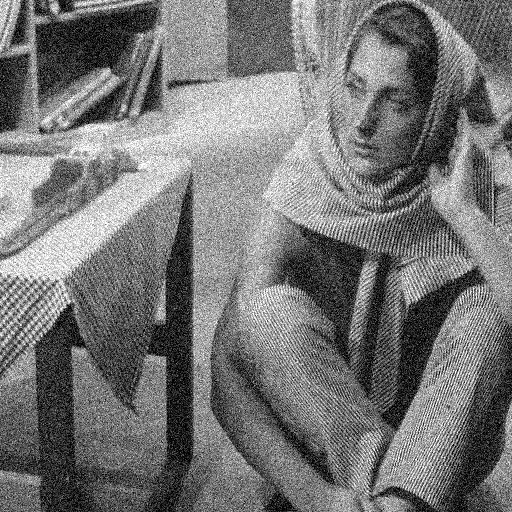
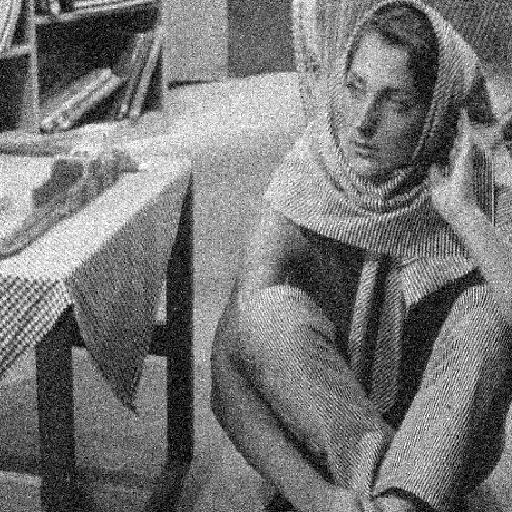
moyennage sur l'overlap des patchs, quantité d'overlap définie par la variable de classe overlap de PatchExtractor

Changed region(s): [[0.0, 0.0, 1.0, 1.0]]

diff --git a/src/core/patch/PatchExtractor.java b/src/core/patch/PatchExtractor.java
@@ -1,6 +1,9 @@
 package core.patch;
 import java.util.ArrayList;
+import java.util.Comparator;
 import java.util.List;
+import java.util.Map;
+import java.util.TreeMap;
 import java.awt.image.BufferedImage;
 import core.image.Image;
 import core.image.ImageTile;
@@ -14,10 +17,10 @@ import core.image.ImageTile;
  * @see Image
  */
 public class PatchExtractor {
-	public static int minOverlap = 5; 		// superposition minimale entre deux patchs en pixels
+	public static double overlap = 1.5; // densité des patchs (1.2 signifie qu'il y aura 120% du nombre minimal couvrant de patchs en abscisse et 120% du nombre minimal couvrant de patchs en ordonnée)
 
 	/**
-	 * Cette methode créée une liste de patchs carrés qui se superposent d'au moins {@code minOverlap} pixel, couvrant toute l'image. la taille des patchs est déterminé par le paramtètre {@code side}
+	 * Cette methode créée une liste de patchs carrés, couvrant toute l'image. la taille des patchs est déterminé par le paramtètre {@code side}
 	 * @param img image à découper en patchs
 	 * @param side taille du coté des patchs
 	 * @return liste de patchs couvrant toute l'image
@@ -27,8 +30,9 @@ public class PatchExtractor {
 			if (img.getWidth() < side || img.getHeight() < side) {				// vérification de la taille du patch
 				throw(new PatchException());
 			}
-			int countX = (int) Math.ceil((double)(img.getWidth()) / side);		// Calcul du nombre de patchs nécessaire sur l'axe des abscisses
-			int countY = (int) Math.ceil((double)(img.getHeight()) / side);		// Calcul du nombre de patchs nécessaire sur l'axe des ordonnées
+			int countX = (int) (Math.ceil((double)(img.getWidth()) / side) * overlap);		// Calcul du nombre de patchs nécessaire sur l'axe des abscisses
+			int countY = (int) (Math.ceil((double)(img.getHeight()) / side) * overlap);		// Calcul du nombre de patchs nécessaire sur l'axe des ordonnées
+			
 			List<Patch> patchList = new ArrayList<>();							// liste des patchs
 
 			for (int j = 0; j < countY; j++) {									// Parcours de la grille de patchs
@@ -65,14 +69,60 @@ public class PatchExtractor {
 				throw(new PatchException());
 			}
 			else {
-				Image img = new Image(new BufferedImage(width, height, BufferedImage.TYPE_BYTE_GRAY));	// création d'une image vide
-				for(Patch patch : patchList) {															// parcours des patchs
-					int x = patch.getXOrigin();
-                	int y = patch.getYOrigin();
-                	int side = patch.getSide();
-					img.getRaster().setPixels(x, y, side, side, patch.getPixels());						// ajout du patch a l'image
+				Map<Integer, List<Patch>> rowMap = new TreeMap<>();
+				int side = patchList.getFirst().getSide();
+				
+				for (Patch patch : patchList) {
+					int yOrigin = patch.getYOrigin();
+					rowMap.computeIfAbsent(yOrigin, k -> new ArrayList<>()).add(patch);
 				}
-				return img;
+				
+				List<List<Patch>> patchRows = new ArrayList<>();
+				
+				for (List<Patch> row : rowMap.values()) {
+					row.sort(Comparator.comparingInt(Patch::getXOrigin));
+					patchRows.add(row);
+				}
+				
+				List<ImageTile> tileRows = new ArrayList<>();
+				
+				for (List<Patch> row : patchRows) {
+
+					tileRows.addLast(new ImageTile(new BufferedImage(width, side, BufferedImage.TYPE_BYTE_GRAY), row.get(0).getXOrigin(), row.get(0).getYOrigin()));
+					tileRows.getLast().getRaster().setPixels(row.get(0).getXOrigin(), 0, side, side, row.get(0).getPixels());
+					for (int i = 0; i < row.size() - 1; i ++) {
+						Patch left = row.get(i);
+						Patch right = row.get(i + 1);
+						int overlapStart = right.getXOrigin();
+						int overlapWidth = left.getXOrigin() + side - overlapStart;
+						tileRows.getLast().getRaster().setPixels(overlapStart, 0, side, side, right.getPixels());
+						for (int x = 0; x <= overlapWidth; x ++) {
+							for (int y = 0; y < side; y ++) {
+								int leftPixel = left.getPixel(side - 1 - overlapWidth + x,y);
+								int rightPixel = right.getPixel(x, y);
+								int grey = ((overlapWidth - x) * leftPixel + x * rightPixel) / overlapWidth;
+								tileRows.getLast().setPixel(overlapStart + x, y, grey);
+							}
+						}
+					}
+				}
+				System.out.println("merging rows");
+				for (int row = 0; row < tileRows.size() - 1; row ++) {
+					ImageTile top = tileRows.get(row);
+					ImageTile bottom = tileRows.get(row + 1);
+					int overlapStart = bottom.getPosY();
+					int overlapHeight = top.getPosY() + side - overlapStart;
+					for (int y = 0; y <= overlapHeight; y ++) {
+						for (int x = 0; x < width; x ++) {
+							int topPixel = top.getPixel(x, side - 1 - overlapHeight + y);
+							int bottomPixel = bottom.getPixel(x, y);
+							int grey = ((overlapHeight - y) * topPixel + y * bottomPixel) / overlapHeight;
+							top.setPixel(x, side - 1 - overlapHeight + y, grey);
+							bottom.setPixel(x, y, grey);
+						}
+					}
+				}
+				return reconstructImageTiles(tileRows, width, height);
 			}
 		}
 		catch (PatchException e) {

diff --git a/src/core/acp/DenoiseTest.java b/src/core/acp/DenoiseTest.java
@@ -29,8 +29,8 @@ public class DenoiseTest {
             String outputDir = basePath + "img_denoised/";
             
             // Paramètres de débruitage
-            int patchSize = 4;
-            double sigma = 30; // Écart type du bruit
+            int patchSize = 15;
+            double sigma = 10; // Écart type du bruit
             
             // Tester toutes les combinaisons de méthodes
             testAllConfigurations(originalImage, noisedImage, outputDir, patchSize, sigma);
